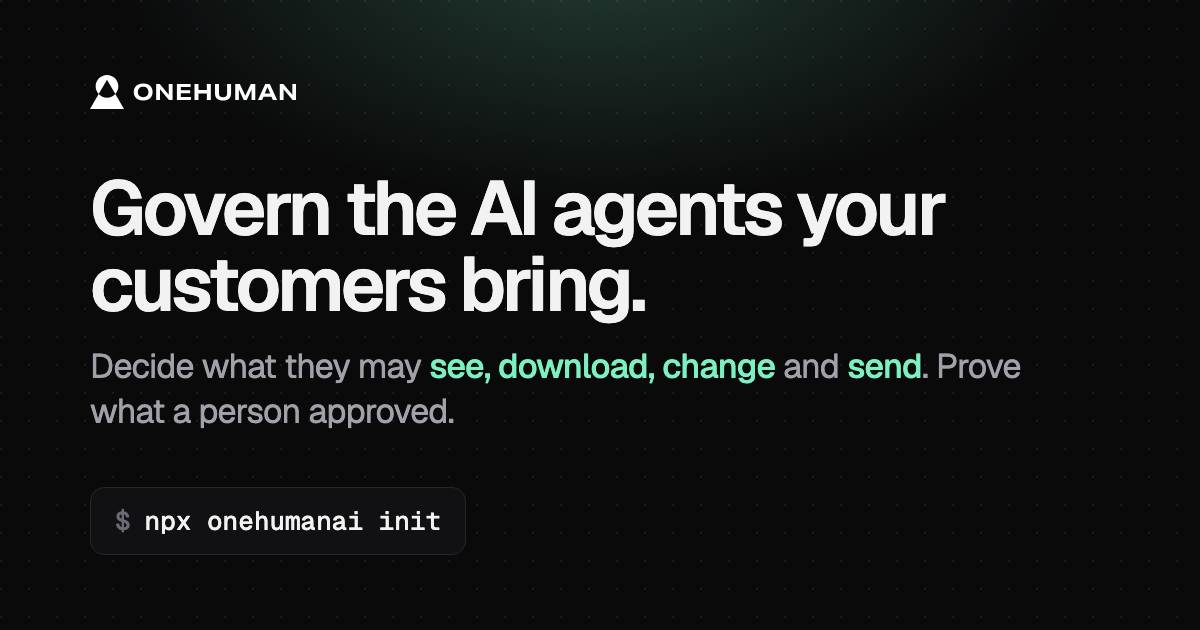
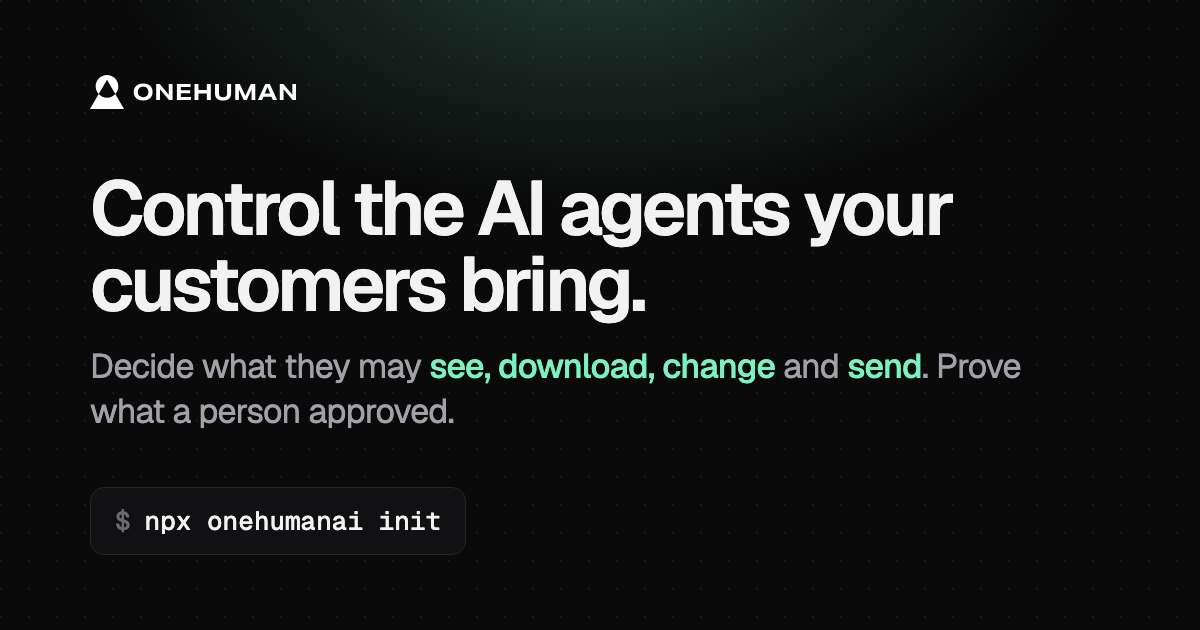
Landing: control, not govern

Changed region(s): [[0.0925, 0.2714, 0.8017, 0.3921]]

diff --git a/web/index.html b/web/index.html
@@ -4,15 +4,15 @@
 <meta charset="utf-8">
 <meta name="viewport" content="width=device-width, initial-scale=1">
 <!-- seo:start (generated by scripts/seo.mjs) -->
-<title>OneHuman · Govern the AI agents your customers bring</title>
+<title>OneHuman · Control the AI agents your customers bring</title>
 <meta name="description" content="OneHuman detects AI agents like Claude in Chrome, ChatGPT agent and Codex inside signed-in sessions, hides private data, waits for the owner's passkey on payments and exports, and signs every decision.">
 <link rel="canonical" href="https://onehuman.ai/">
 <meta name="robots" content="index, follow, max-image-preview:large, max-snippet:-1">
 <meta name="theme-color" content="#0a0a0b">
 <meta property="og:type" content="website">
 <meta property="og:site_name" content="OneHuman">
-<meta property="og:title" content="OneHuman · Govern the AI agents your customers bring">
-<meta property="og:description" content="Govern the AI agents your customers bring. Prove what a person approved.">
+<meta property="og:title" content="OneHuman · Control the AI agents your customers bring">
+<meta property="og:description" content="Control the AI agents your customers bring. Prove what a person approved.">
 <meta property="og:url" content="https://onehuman.ai/">
 <meta property="og:image" content="https://onehuman.ai/og.png">
 <meta property="og:image:width" content="1200">
@@ -20,13 +20,13 @@
 <meta property="og:image:alt" content="OneHuman: prove who approved what.">
 <meta property="og:locale" content="en_US">
 <meta name="twitter:card" content="summary_large_image">
-<meta name="twitter:title" content="OneHuman · Govern the AI agents your customers bring">
-<meta name="twitter:description" content="Govern the AI agents your customers bring. Prove what a person approved.">
+<meta name="twitter:title" content="OneHuman · Control the AI agents your customers bring">
+<meta name="twitter:description" content="Control the AI agents your customers bring. Prove what a person approved.">
 <meta name="twitter:image" content="https://onehuman.ai/og.png">
 <link rel="apple-touch-icon" href="/apple-touch-icon.png">
 <link rel="manifest" href="/site.webmanifest">
 <link rel="alternate" type="text/plain" title="LLM summary" href="/llms.txt">
-<script type="application/ld+json">{"@context":"https://schema.org","@graph":[{"@type":"Organization","@id":"https://onehuman.ai/#org","name":"OneHuman","url":"https://onehuman.ai/","logo":"https://onehuman.ai/apple-touch-icon.png","sameAs":["https://github.com/OneHumanAI/onehumanai","https://github.com/OneHumanAI","https://www.npmjs.com/package/onehumanai"],"email":"security@onehuman.ai"},{"@type":"WebSite","@id":"https://onehuman.ai/#website","name":"OneHuman","url":"https://onehuman.ai/","publisher":{"@id":"https://onehuman.ai/#org"},"inLanguage":"en"},{"@type":"SoftwareApplication","@id":"https://onehuman.ai/#software","name":"OneHuman","url":"https://onehuman.ai/","applicationCategory":"SecurityApplication","applicationSubCategory":"AI agent detection and access control","operatingSystem":"Node.js 22.13 or newer","softwareVersion":"0.6.6","image":"https://onehuman.ai/og.png","description":"Governs the AI agents customers bring into a web app: Node.js middleware and browser SDK that detects an AI browser agent inside a signed-in session and decides per endpoint whether to allow it, hide private fields, wait for the account owner's passkey approval, or keep it closed, with a signed proof of every decision.","featureList":["Detects AI browser agents (Claude in Chrome, ChatGPT agent, OpenAI Codex, Perplexity Comet, Playwright, Puppeteer) inside a signed-in session","Per-click check that tells a human hand from a program","Per-endpoint policy: allow, hide private fields, wait for the owner's passkey approval, never share","Redacts sensitive data on screen the moment an agent attaches","Ed25519-signed proof of every decision, verifiable offline","Only the account owner's passkey approves an action an agent asked for; the agent cannot complete that step","Web Bot Auth signature verification","Runs on your own server; one-command setup with npx onehumanai init"],"downloadUrl":"https://www.npmjs.com/package/onehumanai","installUrl":"https://www.npmjs.com/package/onehumanai","license":"https://github.com/OneHumanAI/onehumanai/blob/main/LICENSE","offers":{"@type":"Offer","price":"0","priceCurrency":"USD"},"publisher":{"@id":"https://onehuman.ai/#org"},"sameAs":["https://github.com/OneHumanAI/onehumanai","https://github.com/OneHumanAI","https://www.npmjs.com/package/onehumanai"]},{"@type":"FAQPage","@id":"https://onehuman.ai/#faq","url":"https://onehuman.ai/","mainEntity":[{"@type":"Question","name":"What is OneHuman?","acceptedAnswer":{"@type":"Answer","text":"OneHuman governs the AI agents your customers bring into your web app. It is a Node.js middleware and browser SDK that notices when an AI agent is using a customer's signed-in session, for example Claude in Chrome, ChatGPT agent, OpenAI Codex, Perplexity Comet or a Playwright script. Each endpoint then allows the request, hides the private fields, waits for the owner's approval with a passkey, or keeps it closed. Every decision is signed on your own server, so you can prove what a person approved."}},{"@type":"Question","name":"How does it tell an AI agent from a person?","acceptedAnswer":{"@type":"Answer","text":"Two ways. Agent tools leave traces in the page when they attach, so the session is marked before the agent's first action. And every click is checked: a hand curves, trembles and slows onto a button, while a program jumps there and releases in a few milliseconds. Agents that sign their requests (Web Bot Auth) are identified by signature."}},{"@type":"Question","name":"How is this different from bot protection like Cloudflare or reCAPTCHA?","acceptedAnswer":{"@type":"Answer","text":"Bot protection works at the door, before login. An AI agent working for your customer comes in through the customer's own browser, cookies and login, so the door lets it in. OneHuman works inside the session, at the endpoint that returns the data."}},{"@type":"Question","name":"How is this different from AI security for employees?","acceptedAnswer":{"@type":"Answer","text":"Workforce AI security tools govern the agents a company's own staff run, on laptops and cloud accounts the company controls. OneHuman sits on the other side: it governs the agents your customers bring into your product, on devices you do not control, at the endpoint that returns the data. The two fit together."}},{"@type":"Question","name":"Will real customers notice it?","acceptedAnswer":{"@type":"Answer","text":"Rarely. On our own measurements, 2 of 397 human clicks from 22 browsers and devices were read as a program. When the evidence is unclear the answer is \"unknown\", never \"agent\", and your rules decide what unknown gets. A person can always confirm with a passkey. How we measured"}},{"@type":"Question","name":"What do I need to install it?","acceptedAnswer":{"@type":"Answer","text":"A Node.js server (22.13 or newer): Express 4 or 5, Connect, a Next.js custom server or plain node:http. Run npx onehumanai init in your project. It finds the routes worth protecting, asks three plain questions and shows every change before it writes it."}},{"@type":"Question","name":"Does customer data leave my server?","acceptedAnswer":{"@type":"Answer","text":"No. Detection, rules, the audit log and the signed proofs run on your server and your database. If you add an API key, the portal receives decision metadata only, never page content, typed text, names or IP addresses. Trust & privacy"}},{"@type":"Question","name":"Is it open source, and what does it cost?","acceptedAnswer":{"@type":"Answer","text":"The browser SDK, the middleware and the CLI are Apache 2.0. The engine's source is public under the Business Source License 1.1, with production use granted. You install it from npm and run it on your own server."}}]}]}</script>
+<script type="application/ld+json">{"@context":"https://schema.org","@graph":[{"@type":"Organization","@id":"https://onehuman.ai/#org","name":"OneHuman","url":"https://onehuman.ai/","logo":"https://onehuman.ai/apple-touch-icon.png","sameAs":["https://github.com/OneHumanAI/onehumanai","https://github.com/OneHumanAI","https://www.npmjs.com/package/onehumanai"],"email":"security@onehuman.ai"},{"@type":"WebSite","@id":"https://onehuman.ai/#website","name":"OneHuman","url":"https://onehuman.ai/","publisher":{"@id":"https://onehuman.ai/#org"},"inLanguage":"en"},{"@type":"SoftwareApplication","@id":"https://onehuman.ai/#software","name":"OneHuman","url":"https://onehuman.ai/","applicationCategory":"SecurityApplication","applicationSubCategory":"AI agent detection and access control","operatingSystem":"Node.js 22.13 or newer","softwareVersion":"0.6.6","image":"https://onehuman.ai/og.png","description":"Controls the AI agents customers bring into a web app: Node.js middleware and browser SDK that detects an AI browser agent inside a signed-in session and decides per endpoint whether to allow it, hide private fields, wait for the account owner's passkey approval, or keep it closed, with a signed proof of every decision.","featureList":["Detects AI browser agents (Claude in Chrome, ChatGPT agent, OpenAI Codex, Perplexity Comet, Playwright, Puppeteer) inside a signed-in session","Per-click check that tells a human hand from a program","Per-endpoint policy: allow, hide private fields, wait for the owner's passkey approval, never share","Redacts sensitive data on screen the moment an agent attaches","Ed25519-signed proof of every decision, verifiable offline","Only the account owner's passkey approves an action an agent asked for; the agent cannot complete that step","Web Bot Auth signature verification","Runs on your own server; one-command setup with npx onehumanai init"],"downloadUrl":"https://www.npmjs.com/package/onehumanai","installUrl":"https://www.npmjs.com/package/onehumanai","license":"https://github.com/OneHumanAI/onehumanai/blob/main/LICENSE","offers":{"@type":"Offer","price":"0","priceCurrency":"USD"},"publisher":{"@id":"https://onehuman.ai/#org"},"sameAs":["https://github.com/OneHumanAI/onehumanai","https://github.com/OneHumanAI","https://www.npmjs.com/package/onehumanai"]},{"@type":"FAQPage","@id":"https://onehuman.ai/#faq","url":"https://onehuman.ai/","mainEntity":[{"@type":"Question","name":"What is OneHuman?","acceptedAnswer":{"@type":"Answer","text":"OneHuman controls the AI agents your customers bring into your web app. It is a Node.js middleware and browser SDK that notices when an AI agent is using a customer's signed-in session, for example Claude in Chrome, ChatGPT agent, OpenAI Codex, Perplexity Comet or a Playwright script. Each endpoint then allows the request, hides the private fields, waits for the owner's approval with a passkey, or keeps it closed. Every decision is signed on your own server, so you can prove what a person approved."}},{"@type":"Question","name":"How does it tell an AI agent from a person?","acceptedAnswer":{"@type":"Answer","text":"Two ways. Agent tools leave traces in the page when they attach, so the session is marked before the agent's first action. And every click is checked: a hand curves, trembles and slows onto a button, while a program jumps there and releases in a few milliseconds. Agents that sign their requests (Web Bot Auth) are identified by signature."}},{"@type":"Question","name":"How is this different from bot protection like Cloudflare or reCAPTCHA?","acceptedAnswer":{"@type":"Answer","text":"Bot protection works at the door, before login. An AI agent working for your customer comes in through the customer's own browser, cookies and login, so the door lets it in. OneHuman works inside the session, at the endpoint that returns the data."}},{"@type":"Question","name":"How is this different from AI security for employees?","acceptedAnswer":{"@type":"Answer","text":"Workforce AI security tools control the agents a company's own staff run, on laptops and cloud accounts the company controls. OneHuman sits on the other side: it controls the agents your customers bring into your product, on devices you do not control, at the endpoint that returns the data. The two fit together."}},{"@type":"Question","name":"Will real customers notice it?","acceptedAnswer":{"@type":"Answer","text":"Rarely. On our own measurements, 2 of 397 human clicks from 22 browsers and devices were read as a program. When the evidence is unclear the answer is \"unknown\", never \"agent\", and your rules decide what unknown gets. A person can always confirm with a passkey. How we measured"}},{"@type":"Question","name":"What do I need to install it?","acceptedAnswer":{"@type":"Answer","text":"A Node.js server (22.13 or newer): Express 4 or 5, Connect, a Next.js custom server or plain node:http. Run npx onehumanai init in your project. It finds the routes worth protecting, asks three plain questions and shows every change before it writes it."}},{"@type":"Question","name":"Does customer data leave my server?","acceptedAnswer":{"@type":"Answer","text":"No. Detection, rules, the audit log and the signed proofs run on your server and your database. If you add an API key, the portal receives decision metadata only, never page content, typed text, names or IP addresses. Trust & privacy"}},{"@type":"Question","name":"Is it open source, and what does it cost?","acceptedAnswer":{"@type":"Answer","text":"The browser SDK, the middleware and the CLI are Apache 2.0. The engine's source is public under the Business Source License 1.1, with production use granted. You install it from npm and run it on your own server."}}]}]}</script>
 <!-- seo:end -->
 <link rel="icon" href="/favicon.svg">
 <link rel="preconnect" href="https://fonts.googleapis.com"><link rel="preconnect" href="https://fonts.gstatic.com" crossorigin>
@@ -57,7 +57,7 @@
 <section class="hero" id="hero">
   <canvas id="aurora" aria-hidden="true"></canvas>
   <h1 class="h1" id="h1">
-    <span class="w" style="--i:0">Govern</span> <span class="w" style="--i:1">the</span> <span class="g sp w" style="--i:1" aria-hidden="true"><i class="glow"></i><svg viewBox="0 0 24 24"><path d="M9.937 15.5A2 2 0 0 0 8.5 14.063l-6.135-1.582a.5.5 0 0 1 0-.962L8.5 9.936A2 2 0 0 0 9.937 8.5l1.582-6.135a.5.5 0 0 1 .963 0L14.063 8.5A2 2 0 0 0 15.5 9.937l6.135 1.581a.5.5 0 0 1 0 .964L15.5 14.063a2 2 0 0 0-1.437 1.437l-1.582 6.135a.5.5 0 0 1-.963 0z"/></svg><i class="p p1"></i><i class="p p2"></i><i class="p p3"></i><i class="p p4"></i></span><span class="w" style="--i:2">AI</span> <span class="w" style="--i:3">agents</span> <span class="w" style="--i:4">your</span> <span class="w" style="--i:5">customers</span> <span class="w" style="--i:6">bring.</span><br>
+    <span class="w" style="--i:0">Control</span> <span class="w" style="--i:1">the</span> <span class="g sp w" style="--i:1" aria-hidden="true"><i class="glow"></i><svg viewBox="0 0 24 24"><path d="M9.937 15.5A2 2 0 0 0 8.5 14.063l-6.135-1.582a.5.5 0 0 1 0-.962L8.5 9.936A2 2 0 0 0 9.937 8.5l1.582-6.135a.5.5 0 0 1 .963 0L14.063 8.5A2 2 0 0 0 15.5 9.937l6.135 1.581a.5.5 0 0 1 0 .964L15.5 14.063a2 2 0 0 0-1.437 1.437l-1.582 6.135a.5.5 0 0 1-.963 0z"/></svg><i class="p p1"></i><i class="p p2"></i><i class="p p3"></i><i class="p p4"></i></span><span class="w" style="--i:2">AI</span> <span class="w" style="--i:3">agents</span> <span class="w" style="--i:4">your</span> <span class="w" style="--i:5">customers</span> <span class="w" style="--i:6">bring.</span><br>
     <span class="muted"><span class="w" style="--i:7">Decide</span> <span class="w" style="--i:8">what</span> <span class="w" style="--i:9">they</span> <span class="w" style="--i:10">may</span> <span class="w rot-wrap" style="--i:11"><span class="rot" id="rot"><span class="on">see</span><span>download</span><span>change</span><span>send</span></span>.</span><br>
     <span class="w" style="--i:12">Prove</span> <span class="g fp w" style="--i:13" aria-hidden="true"><svg viewBox="0 0 100 130"><path pathLength="1" d="M50.0 62.0 L50.0 66.0"/><path pathLength="1" d="M43.5 64.0 L43.5 63.5 L43.6 63.0 L43.6 62.4 L43.8 61.9 L43.9 61.4 L44.1 60.9 L44.3 60.5 L44.5 60.0 L44.7 59.6 L45.0 59.2 L45.3 58.8 L45.7 58.4 L46.0 58.1 L46.4 57.8 L46.8 57.5 L47.2 57.3 L47.6 57.0 L48.0 56.9 L48.4 56.7 L48.9 56.6 L49.3 56.5 L49.8 56.5 L50.2 56.5 L50.7 56.5 L51.1 56.6 L51.6 56.7 L52.0 56.9 L52.4 57.0 L52.8 57.3 L53.2 57.5 L53.6 57.8 L54.0 58.1 L54.3 58.4 L54.7 58.8 L55.0 59.2 L55.3 59.6 L55.5 60.0 L55.7 60.5 L55.9 60.9 L56.1 61.4 L56.2 61.9 L56.4 62.4 L56.4 63.0 L56.5 63.5 L56.5 64.0 L56.5 64.5 L56.4 65.0 L56.4 65.6 L56.2 66.1 L56.1 66.6 L55.9 67.1 L55.7 67.5 L55.5 68.0 L55.3 68.4 L55.0 68.8 L54.7 69.2 L54.3 69.6 L54.0 69.9 L53.6 70.2 L53.2 70.5 L52.8 70.7 L52.4 71.0 L52.0 71.1 L51.6 71.3 L51.1 71.4 L50.7 71.5 L50.2 71.5 L49.8 71.5 L49.3 71.5 L48.9 71.4 L48.4 71.3 L48.0 71.1 L47.6 71.0 L47.2 70.7 L46.8 70.5 L46.4 70.2 L46.0 69.9 L45.7 69.6 L45.3 69.2 L45.0 68.8 L44.7 68.4 L44.5 68.0 L44.3 67.5 L44.1 67.1 L43.9 66.6 L43.8 66.1 L43.6 65.6 L43.6 65.0 L43.5 64.5 L43.5 64.0"/><path pathLength="1" d="M38.6 64.0 L38.6 63.1 L38.7 62.1 L38.8 61.2 L39.0 60.3 L39.3 59.5 L39.6 58.6 L39.9 57.8 L40.3 57.0 L40.8 56.2 L41.3 55.5 L41.8 54.8 L42.4 54.1 L43.0 53.5 L43.6 53.0 L44.3 52.5 L45.0 52.0 L45.7 51.7 L46.5 51.4 L47.2 51.1 L48.0 50.9 L48.8 50.8 L49.6 50.7 L50.4 50.7 L51.2 50.8 L52.0 50.9"/><path pathLength="1" d="M55.7 52.5 L56.4 53.0 L57.0 53.5 L57.6 54.1 L58.2 54.8 L58.7 55.5 L59.2 56.2 L59.7 57.0 L60.1 57.8 L60.4 58.6 L60.7 59.5 L61.0 60.3 L61.2 61.2 L61.3 62.1 L61.4 63.1 L61.4 64.0 L61.4 64.9 L61.3 65.9 L61.2 66.8 L61.0 67.7 L60.7 68.5 L60.4 69.4 L60.1 70.2 L59.7 71.0 L59.2 71.8 L58.7 72.5 L58.2 73.2 L57.6 73.9 L57.0 74.5 L56.4 75.0 L55.7 75.5 L55.0 76.0 L54.3 76.3 L53.5 76.6 L52.8 76.9 L52.0 77.1 L51.2 77.2 L50.4 77.3 L49.6 77.3 L48.8 77.2 L48.0 77.1 L47.2 76.9 L46.5 76.6 L45.7 76.3 L45.0 76.0 L44.3 75.5 L43.6 75.0 L43.0 74.5 L42.4 73.9 L41.8 73.2 L41.3 72.5 L40.8 71.8 L40.3 71.0 L39.9 70.2 L39.6 69.4 L39.3 68.5 L39.0 67.7 L38.8 66.8 L38.7 65.9 L38.6 64.9 L38.6 64.0"/><path pathLength="1" d="M33.7 64.0 L33.7 62.7 L33.9 61.3 L34.1 60.0 L34.3 58.7 L34.7 57.5 L35.1 56.2 L35.6 55.0 L36.2 53.9 L36.8 52.8 L37.5 51.7 L38.3 50.7 L39.1 49.8 L40.0 48.9 L40.9 48.2 L41.9 47.5 L42.9 46.8 L43.9 46.3 L45.0 45.8 L46.1 45.5 L47.2 45.2 L48.3 45.0 L49.4 44.9 L50.6 44.9 L51.7 45.0 L52.8 45.2 L53.9 45.5 L55.0 45.8 L56.1 46.3 L57.1 46.8 L58.2 47.5 L59.1 48.2 L60.0 48.9 L60.9 49.8 L61.7 50.7 L62.5 51.7 L63.2 52.8 L63.8 53.9 L64.4 55.0 L64.9 56.2 L65.3 57.5 L65.7 58.7 L65.9 60.0 L66.1 61.3 L66.3 62.7 L66.3 64.0 L66.3 65.3 L66.1 66.7 L65.9 68.0 L65.7 69.3 L65.3 70.5"/><path pathLength="1" d="M61.5 77.5 L60.7 78.4 L59.8 79.3 L58.8 80.1 L57.8 80.8 L56.8 81.4 L55.7 81.9 L54.6 82.3 L53.5 82.7 L52.3 82.9 L51.2 83.1 L50.0 83.1 L48.8 83.1 L47.7 82.9 L46.5 82.7 L45.4 82.3 L44.3 81.9 L43.2 81.4 L42.2 80.8 L41.2 80.1 L40.2 79.3 L39.3 78.4 L38.5 77.5 L37.7 76.5 L37.0 75.4 L36.3 74.3 L35.7 73.2 L35.2 71.9 L34.7 70.7 L34.4 69.4 L34.1 68.1 L33.9 66.7 L33.7 65.4 L33.7 64.0"/><path pathLength="1" d="M28.8 64.0 L28.9 62.3 L29.0 60.5 L29.3 58.8 L29.6 57.1 L30.1 55.5 L30.6 53.9 L31.3 52.3 L32.0 50.8 L32.8 49.4 L33.8 48.0"/><path pathLength="1" d="M39.4 42.4 L40.7 41.6 L42.1 40.9 L43.4 40.3 L44.9 39.8 L46.3 39.5 L47.8 39.2 L49.3 39.1 L50.7 39.1 L52.2 39.2 L53.7 39.5 L55.1 39.8 L56.6 40.3 L57.9 40.9 L59.3 41.6 L60.6 42.4 L61.9 43.4 L63.1 44.4 L64.2 45.5 L65.3 46.7 L66.2 48.0 L67.2 49.4 L68.0 50.8 L68.7 52.3 L69.4 53.9 L69.9 55.5 L70.4 57.1 L70.7 58.8 L71.0 60.5 L71.1 62.3 L71.2 64.0 L71.1 65.7 L71.0 67.5 L70.7 69.2 L70.4 70.9 L69.9 72.5 L69.4 74.1 L68.7 75.7 L68.0 77.2 L67.2 78.6 L66.2 80.0 L65.3 81.3 L64.2 82.5 L63.1 83.6 L61.9 84.6 L60.6 85.6"/><path pathLength="1" d="M55.5 88.1 L54.0 88.4 L52.6 88.7 L51.1 88.9 L49.6 88.9 L48.1 88.8 L46.6 88.6 L45.1 88.2 L43.7 87.8 L42.3 87.2 L40.9 86.5 L39.6 85.7 L38.3 84.8 L37.1 83.8 L35.9 82.6 L34.9 81.4 L33.9 80.1 L32.9 78.8 L32.1 77.3 L31.3 75.8 L30.7 74.2 L30.1 72.6 L29.6 70.9 L29.3 69.2 L29.0 67.5 L28.9 65.8 L28.8 64.0"/><path pathLength="1" d="M23.9 64.0 L24.0 61.8 L24.2 59.7 L24.5 57.5 L24.9 55.4 L25.5 53.4 L26.2 51.4 L27.0 49.4 L28.0 47.5 L29.0 45.7 L30.2 44.0 L31.4 42.4 L32.8 41.0 L34.2 39.6 L35.7 38.3 L37.3 37.2 L38.9 36.2 L40.6 35.4 L42.4 34.6 L44.1 34.1 L46.0 33.7 L47.8 33.4 L49.6 33.3 L51.5 33.3 L53.3 33.5 L55.1 33.9 L56.9 34.4 L58.7 35.1 L60.4 35.8 L62.1 36.8 L63.7 37.9 L65.2 39.1 L66.7 40.4 L68.1 41.8 L69.3 43.4 L70.5 45.1 L71.6 46.8 L72.6 48.7"/><path pathLength="1" d="M75.7 58.7 L76.0 60.8 L76.1 63.0 L76.1 65.2 L75.9 67.3 L75.7 69.5 L75.3 71.6 L74.8 73.7 L74.1 75.7 L73.3 77.7 L72.5 79.6 L71.5 81.5 L70.4 83.2 L69.1 84.9 L67.8 86.4 L66.4 87.8 L65.0 89.1 L63.4 90.3 L61.8 91.4 L60.1 92.3 L58.4 93.1 L56.6 93.7 L54.8 94.2 L53.0 94.5 L51.1 94.7 L49.3 94.7 L47.4 94.6 L45.6 94.3 L43.8 93.8 L42.0 93.2 L40.3 92.5 L38.6 91.6 L37.0 90.6"/><path pathLength="1" d="M30.0 83.7 L28.9 82.0 L27.9 80.3 L27.0 78.4 L26.2 76.5 L25.5 74.5 L24.9 72.5 L24.5 70.4 L24.2 68.3 L24.0 66.1 L23.9 64.0"/><path pathLength="1" d="M20.9 76.5 L20.6 75.7 L20.4 75.0 L20.2 74.2 L20.1 73.4 L19.9 72.7 L19.7 71.9 L19.6 71.1 L19.5 70.3"/><path pathLength="1" d="M19.5 57.7 L19.9 55.2 L20.5 52.7 L21.3 50.3 L22.2 48.0 L23.2 45.7 L24.3 43.5 L25.6 41.5 L27.0 39.5 L28.5 37.7 L30.2 36.0 L31.9 34.4 L33.7 33.0 L35.6 31.7 L37.5 30.6 L39.5 29.6 L41.6 28.9 L43.7 28.3 L45.9 27.8 L48.0 27.6 L50.2 27.5 L52.4 27.6 L54.5 27.9 L56.7 28.4 L58.8 29.0 L60.9 29.8 L62.9 30.8 L64.8 31.9 L66.7 33.2 L68.5 34.7 L70.2 36.3 L71.8 38.0 L73.3 39.9 L74.6 41.9 L75.9 43.9 L77.0 46.1 L78.0 48.4 L78.9 50.8 L79.6 53.2 L80.2 55.6 L80.6 58.2 L80.9 60.7 L81.0 63.3 L81.0 65.8 L80.8 68.4 L80.4 70.9 L80.0 73.4 L79.3 75.8 L78.5 78.2 L77.6 80.5 L76.6 82.8 L75.4 84.9"/><path pathLength="1" d="M16.3 78.5 L15.5 75.7 L14.9 72.8 L14.4 69.9 L14.2 67.0 L14.1 64.0 L14.2 61.0 L14.4 58.1 L14.9 55.2 L15.5 52.3 L16.3 49.5 L17.2 46.8 L18.3 44.1 L19.6 41.6 L21.0 39.1 L22.5 36.8 L24.2 34.6 L26.0 32.6 L27.9 30.7 L29.9 28.9 L32.1 27.4 L34.3 26.0 L36.6 24.8 L38.9 23.8 L41.3 23.0 L43.8 22.3"/><path pathLength="1" d="M56.2 22.3 L58.7 23.0 L61.2 23.8 L63.5 24.8 L65.8 26.0 L68.1 27.5 L70.2 29.1 L72.3 30.8 L74.2 32.8 L76.0 34.8 L77.7 37.1 L79.2 39.5 L80.6 41.9 L81.9 44.5 L83.0 47.2 L83.9 50.0 L84.6 52.9 L85.2 55.8 L85.6 58.7 L85.8 61.7 L85.9 64.7 L85.8 67.7 L85.5 70.7 L85.0 73.6 L84.3 76.5 L83.5 79.3 L82.5 82.0 L81.3 84.7 L80.0 87.2 L78.5 89.7 L76.9 92.0 L75.2 94.2 L73.3 96.2 L71.3 98.0 L69.2 99.7 L67.0 101.2 L64.8 102.6 L62.4 103.7 L60.0 104.6 L57.6 105.4 L55.1 105.9 L52.5 106.2 L50.0 106.3"/><path pathLength="1" d="M10.6 76.4 L9.9 73.1 L9.5 69.7 L9.2 66.3 L9.2 62.9 L9.4 59.4 L9.8 56.0 L10.4 52.7 L11.1 49.4 L12.1 46.1 L13.3 43.0 L14.7 40.0 L16.2 37.0 L17.9 34.3 L19.8 31.6 L21.8 29.2 L24.0 26.9 L26.3 24.8 L28.8 22.9 L31.3 21.2 L33.9 19.8 L36.7 18.5 L39.4 17.5 L42.3 16.8 L45.2 16.2 L48.1 16.0 L51.0 15.9 L53.9 16.1 L56.8 16.6 L59.6 17.3 L62.4 18.2 L65.2 19.3 L67.8 20.7 L70.4 22.3"/><path pathLength="1" d="M81.3 33.1 L83.0 35.8 L84.6 38.6 L86.1 41.5 L87.3 44.6 L88.4 47.7 L89.3 50.9 L90.0 54.2 L90.4 57.6 L90.7 61.0 L90.8 64.4 L90.7 67.7 L90.4 71.1 L89.8 74.5 L89.1 77.7 L88.2 81.0 L87.1 84.1 L85.8 87.1 L84.3 90.0 L82.7 92.8 L80.9 95.5 L78.9 97.9 L76.8 100.3 L74.6 102.4 L72.2 104.3 L69.7 106.1 L67.2 107.6 L64.5 108.9 L61.8 110.0 L59.0 110.9 L56.2 111.5 L53.3 111.9 L50.5 112.1 L47.6 112.0 L44.7 111.7 L41.9 111.1 L39.1 110.3 L36.3 109.3 L33.7 108.1 L31.1 106.6 L28.6 104.9 L26.2 103.0 L23.9 101.0 L21.7 98.7 L19.7 96.3 L17.9 93.7 L16.2 90.9 L14.7 88.0"/><path pathLength="1" d="M5.9 78.0 L5.1 74.2 L4.6 70.4 L4.4 66.6 L4.3 62.7 L4.5 58.9 L4.9 55.1 L5.6 51.3 L6.5 47.6 L7.6 44.0 L8.9 40.4 L10.4 37.1"/><path pathLength="1" d="M20.6 22.7 L23.1 20.4 L25.8 18.3 L28.5 16.4 L31.4 14.8 L34.4 13.4 L37.4 12.2 L40.5 11.3 L43.6 10.6 L46.8 10.2 L50.0 10.1 L53.2 10.2 L56.4 10.6 L59.5 11.3 L62.6 12.2 L65.6 13.4 L68.6 14.8 L71.5 16.4 L74.2 18.3 L76.9 20.4 L79.4 22.7 L81.7 25.2 L84.0 27.9 L86.0 30.8 L87.9 33.9 L89.6 37.1 L91.1 40.4 L92.4 43.8 L93.5 47.3 L94.3 51.0 L95.0 54.6 L95.4 58.4 L95.7 62.1 L95.7 65.9 L95.4 69.6 L95.0 73.4"/></svg></span><span class="w" style="--i:14">what</span> <span class="w" style="--i:15">a</span> <span class="w" style="--i:16">person</span> <span class="w" style="--i:17">approved.</span></span>
   </h1>
@@ -142,8 +142,8 @@
 
 <section class="features" id="how">
   <div class="sec-head reveal">
-    <h2 class="h2 tr">Detect. Govern. Prove. Hand back.</h2>
-    <p class="lead">Workforce AI tools govern the agents your employees use. OneHuman governs the agents your customers bring, inside your product, where they act.</p>
+    <h2 class="h2 tr">Detect. Control. Prove. Hand back.</h2>
+    <p class="lead">Workforce AI tools control the agents your employees use. OneHuman controls the agents your customers bring, inside your product, where they act.</p>
   </div>
   <div class="grid4 verbs">
     <article class="feat reveal" style="--i:0">
@@ -153,7 +153,7 @@
     </article>
     <article class="feat reveal" style="--i:1">
       <div class="ico"><svg viewBox="0 0 24 24"><rect x="3" y="5" width="18" height="14" rx="2"/><path d="M3 10h18"/><path d="M7 15h4"/></svg></div>
-      <h3>Govern</h3>
+      <h3>Control</h3>
       <p>One rule per endpoint: allow it, hide the private fields, wait for the owner's approval, or never share. Data already on screen is hidden the instant an agent joins. Agents keep working; your rules decide how far.</p>
     </article>
     <article class="feat reveal" style="--i:2">
@@ -264,10 +264,10 @@ Licence: the package is Apache-2.0; the engine is BUSL-1.1 with production use g
     <h2 class="h2 tr">Questions</h2>
   </div>
   <div class="qa reveal">
-    <details open><summary>What is OneHuman?</summary><p>OneHuman governs the AI agents your customers bring into your web app. It is a Node.js middleware and browser SDK that notices when an AI agent is using a customer's signed-in session, for example Claude in Chrome, ChatGPT agent, OpenAI Codex, Perplexity Comet or a Playwright script. Each endpoint then allows the request, hides the private fields, waits for the owner's approval with a passkey, or keeps it closed. Every decision is signed on your own server, so you can prove what a person approved.</p></details>
+    <details open><summary>What is OneHuman?</summary><p>OneHuman controls the AI agents your customers bring into your web app. It is a Node.js middleware and browser SDK that notices when an AI agent is using a customer's signed-in session, for example Claude in Chrome, ChatGPT agent, OpenAI Codex, Perplexity Comet or a Playwright script. Each endpoint then allows the request, hides the private fields, waits for the owner's approval with a passkey, or keeps it closed. Every decision is signed on your own server, so you can prove what a person approved.</p></details>
     <details><summary>How does it tell an AI agent from a person?</summary><p>Two ways. Agent tools leave traces in the page when they attach, so the session is marked before the agent's first action. And every click is checked: a hand curves, trembles and slows onto a button, while a program jumps there and releases in a few milliseconds. Agents that sign their requests (Web Bot Auth) are identified by signature.</p></details>
     <details><summary>How is this different from bot protection like Cloudflare or reCAPTCHA?</summary><p>Bot protection works at the door, before login. An AI agent working for your customer comes in through the customer's own browser, cookies and login, so the door lets it in. OneHuman works inside the session, at the endpoint that returns the data.</p></details>
-    <details><summary>How is this different from AI security for employees?</summary><p>Workforce AI security tools govern the agents a company's own staff run, on laptops and cloud accounts the company controls. OneHuman sits on the other side: it governs the agents your customers bring into your product, on devices you do not control, at the endpoint that returns the data. The two fit together.</p></details>
+    <details><summary>How is this different from AI security for employees?</summary><p>Workforce AI security tools control the agents a company's own staff run, on laptops and cloud accounts the company controls. OneHuman sits on the other side: it controls the agents your customers bring into your product, on devices you do not control, at the endpoint that returns the data. The two fit together.</p></details>
     <details><summary>Will real customers notice it?</summary><p>Rarely. On our own measurements, 2 of 397 human clicks from 22 browsers and devices were read as a program. When the evidence is unclear the answer is "unknown", never "agent", and your rules decide what unknown gets. A person can always confirm with a passkey. <a href="/measurements">How we measured</a></p></details>
     <details><summary>What do I need to install it?</summary><p>A Node.js server (22.13 or newer): Express 4 or 5, Connect, a Next.js custom server or plain node:http. Run <code>npx onehumanai init</code> in your project. It finds the routes worth protecting, asks three plain questions and shows every change before it writes it.</p></details>
     <details><summary>Does customer data leave my server?</summary><p>No. Detection, rules, the audit log and the signed proofs run on your server and your database. If you add an API key, the portal receives decision metadata only, never page content, typed text, names or IP addresses. <a href="/trust">Trust &amp; privacy</a></p></details>

diff --git a/web/landing.js b/web/landing.js
@@ -81,7 +81,7 @@
     }
     if (io) io.observe(cv); else requestAnimationFrame(frame);
   })();
-  // "Decide what they can see.": the verb cycles through what the policy actually governs
+  // "Decide what they can see.": the verb cycles through what the policy actually controls
   (function rotator() {
     const rot = $('#rot'); if (!rot) return;
     const words = $$('span', rot); let i = 0;

diff --git a/packages/onehumanai/CHANGELOG.md b/packages/onehumanai/CHANGELOG.md
@@ -2,7 +2,7 @@
 
 ## 0.6.6
 - **An AI agent cannot approve its own action.** When a rule asks for a step-up and an agent is acting, the 428 no longer carries the code (the agent reads the page, so it could type it back). It says `stepUp.approve: true`, and only the account owner's passkey approves it: `webauthn/assert/options { resource, purpose: 'approve' }`, then assert, then retry once. That approval opens that one action; the session stays the agent's. A typed code for it is refused with `passkey_required`.
-- **Govern, not block.** Recommended rules for agents now read: hide personal data, send money movement and exports to the owner for approval, keep only secrets (API keys, card numbers) closed. `block` still exists for those.
+- **Control, not block.** Recommended rules for agents now read: hide personal data, send money movement and exports to the owner for approval, keep only secrets (API keys, card numbers) closed. `block` still exists for those.
 - **The 30-day report opens with the headline**: how many of your customers' sessions had an AI agent, which products, and what the rules did with what they asked for.
 
 ## 0.6.5
